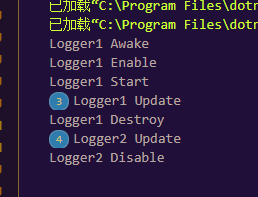
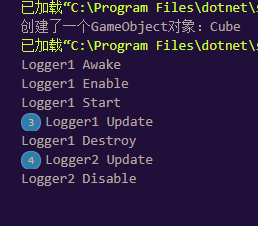
Site updated: 2021-03-16 23:41:36

diff --git a/2021/03/16/模拟Mono脚本生命周期/index.html b/2021/03/16/模拟Mono脚本生命周期/index.html
@@ -288,7 +288,9 @@
 <li><h3 id="GameObject"><a href="#GameObject" class="headerlink" title="GameObject"></a>GameObject</h3><p>  以列表存储mono脚本，通过可变长参数在初始化时将脚本加入列表并发布给MainMono</p>
 <pre><code class="C#">public class GameObject
 &#123;
-    public List&lt;MonoBehaviour&gt; componentlist = new List&lt;MonoBehaviour&gt;();
+    public string Name;
+
+    private List&lt;MonoBehaviour&gt; componentlist = new List&lt;MonoBehaviour&gt;();
 
     public Action OnDestroy;
     public Action OnDisable;
@@ -320,7 +322,7 @@
         &#125;
     &#125;
     //添加脚本
-    public void AddComponent(MonoBehaviour component)
+    public void AddComponent&lt;T&gt;(T component)where T : MonoBehaviour
     &#123;
         componentlist.Add(component);
         component.gameobject = this;
@@ -339,9 +341,22 @@
             MainMono.Instance.Update -= component.Update;
         &#125;
     &#125;
-    //摧毁脚本
-    public void DestroyComponent(MonoBehaviour component)
+    //获取脚本
+    public T GetComponent&lt;T&gt;()where T : MonoBehaviour
     &#123;
+       foreach (var item in componentlist)
+       &#123;
+           if(item is T)
+                return item as T;
+       &#125;
+        return null;
+    &#125;
+    //移除脚本
+    public void DestroyComponent(MonoBehaviour component)
+    &#123;            
+        //---------
+        //移除逻辑
+        //---------
         componentlist.Remove(component);
 
         MainMono.Instance.Awake -= component.Awake;
@@ -349,12 +364,8 @@
         MainMono.Instance.Start -= component.Start;
         MainMono.Instance.Update -= component.Update;
         this.OnDestroy -= component.OnDestroy;
-
-        //---------
-        //移除逻辑
-        //---------
     &#125;
-    //不启用脚本
+    //禁用脚本
     public void DisableComponent(MonoBehaviour component)
     &#123;
         MainMono.Instance.OnEnable -= component.OnEnable;
@@ -423,8 +434,11 @@ public class LogComponent_2:MonoBehaviour
     public static void Main(string[] args)
     &#123;
         //模拟拖拽脚本到场景中的gameobject上
-        GameObject gameObject = new GameObject(new LogComponent_1());
+        GameObject gameobject = new GameObject(new LogComponent_1());
 
+        gameobject.Name=&quot;Cube&quot;;
+        Console.WriteLine($&quot;创建了一个GameObject对象：&#123;gameobject.Name&#125;&quot;);
+        
         //开始游戏！
         MainMono.Instance.GameStart();
     &#125;

diff --git a/index.html b/index.html
@@ -210,7 +210,7 @@ mono是挂载在gameobject身上的组件，并且...
         <span>10 min</span>
 
         <img src="/blog/images/icon/words.png" alt="">
-        <span class="words">7937</span>
+        <span class="words">8375</span>
 
     </div>
     <hr color=#49495b SIZE=1>
